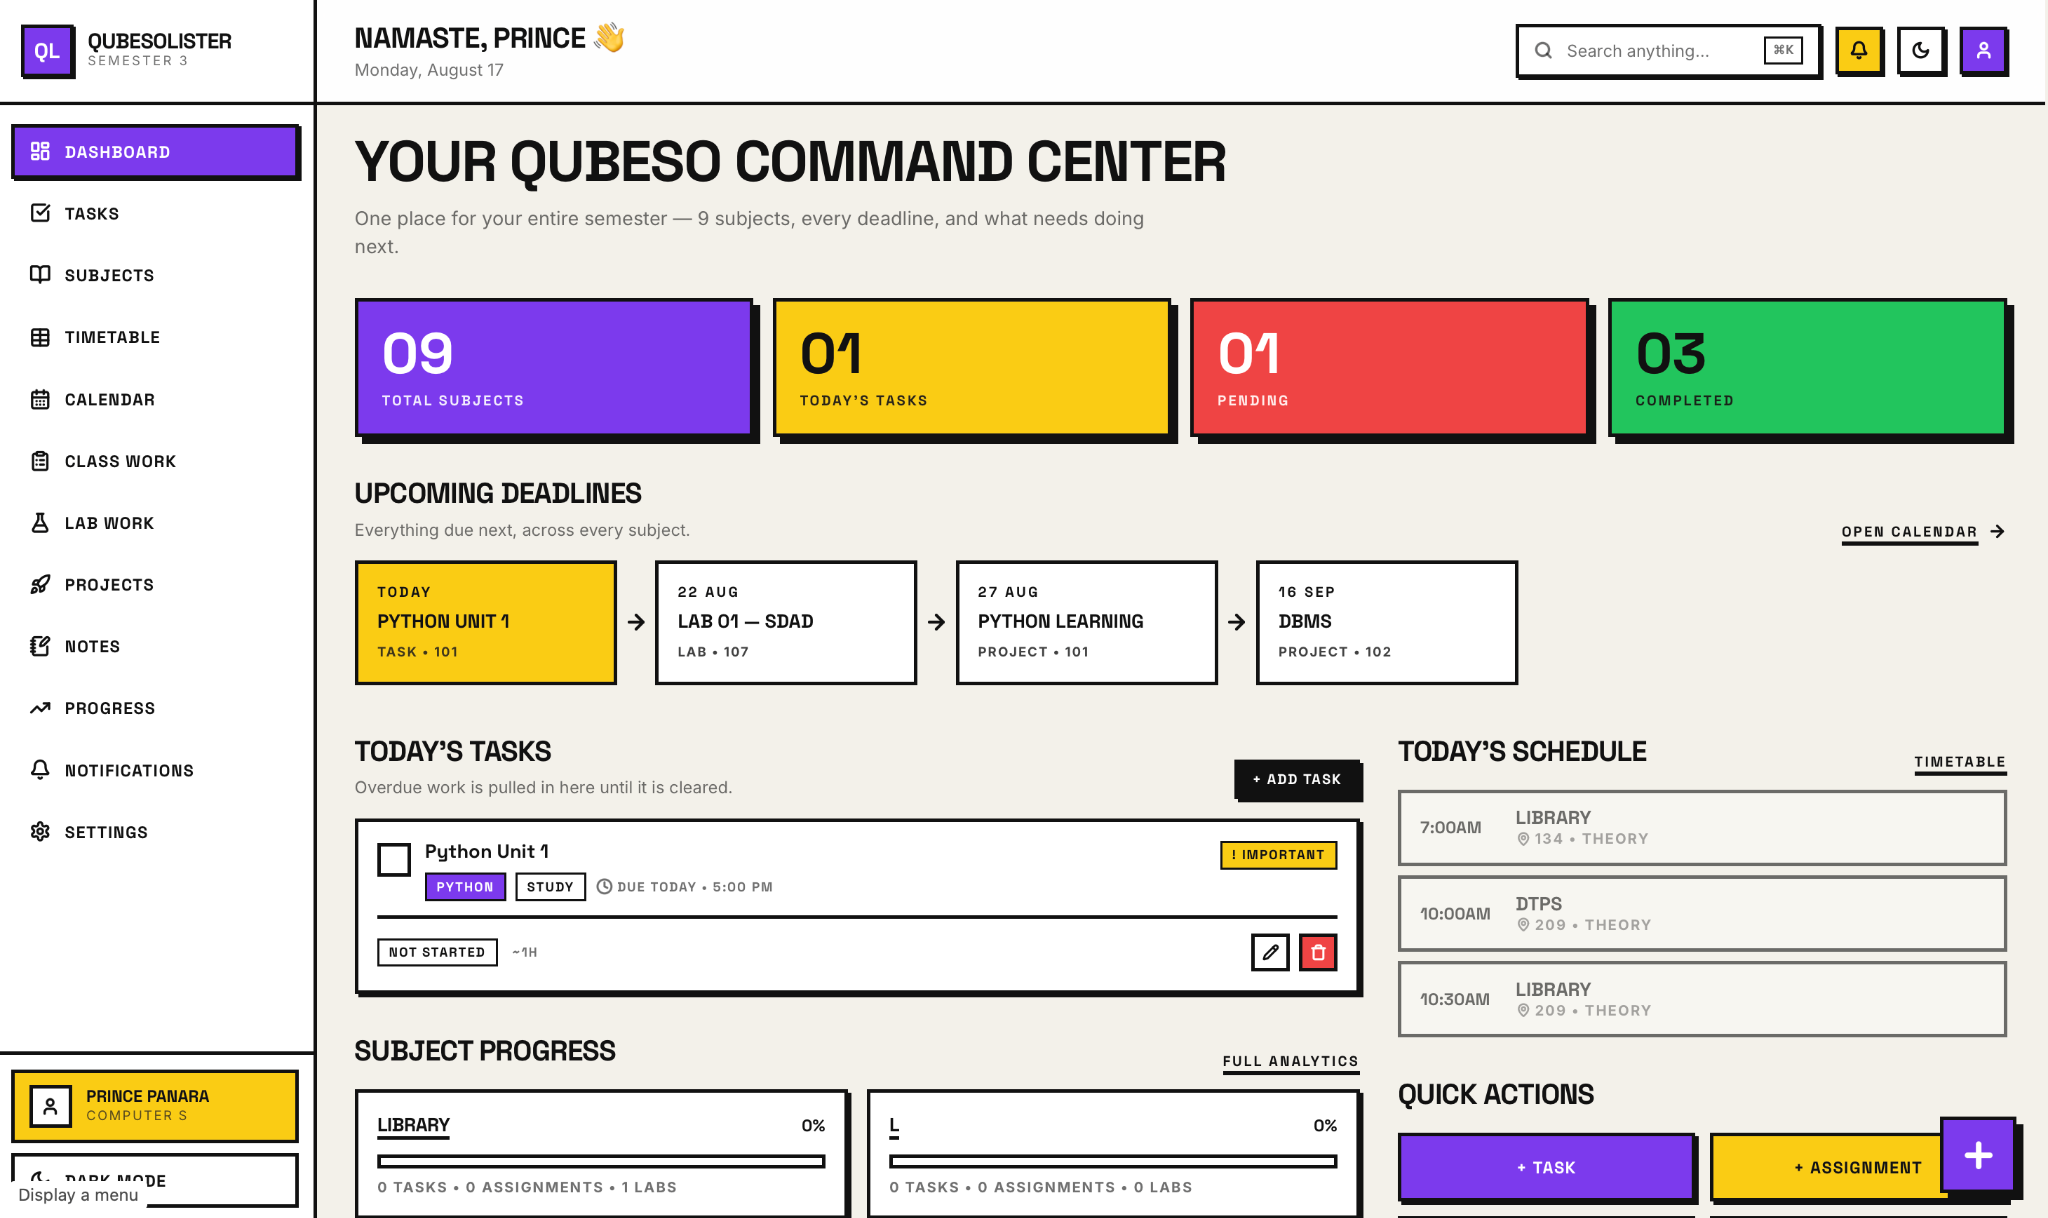
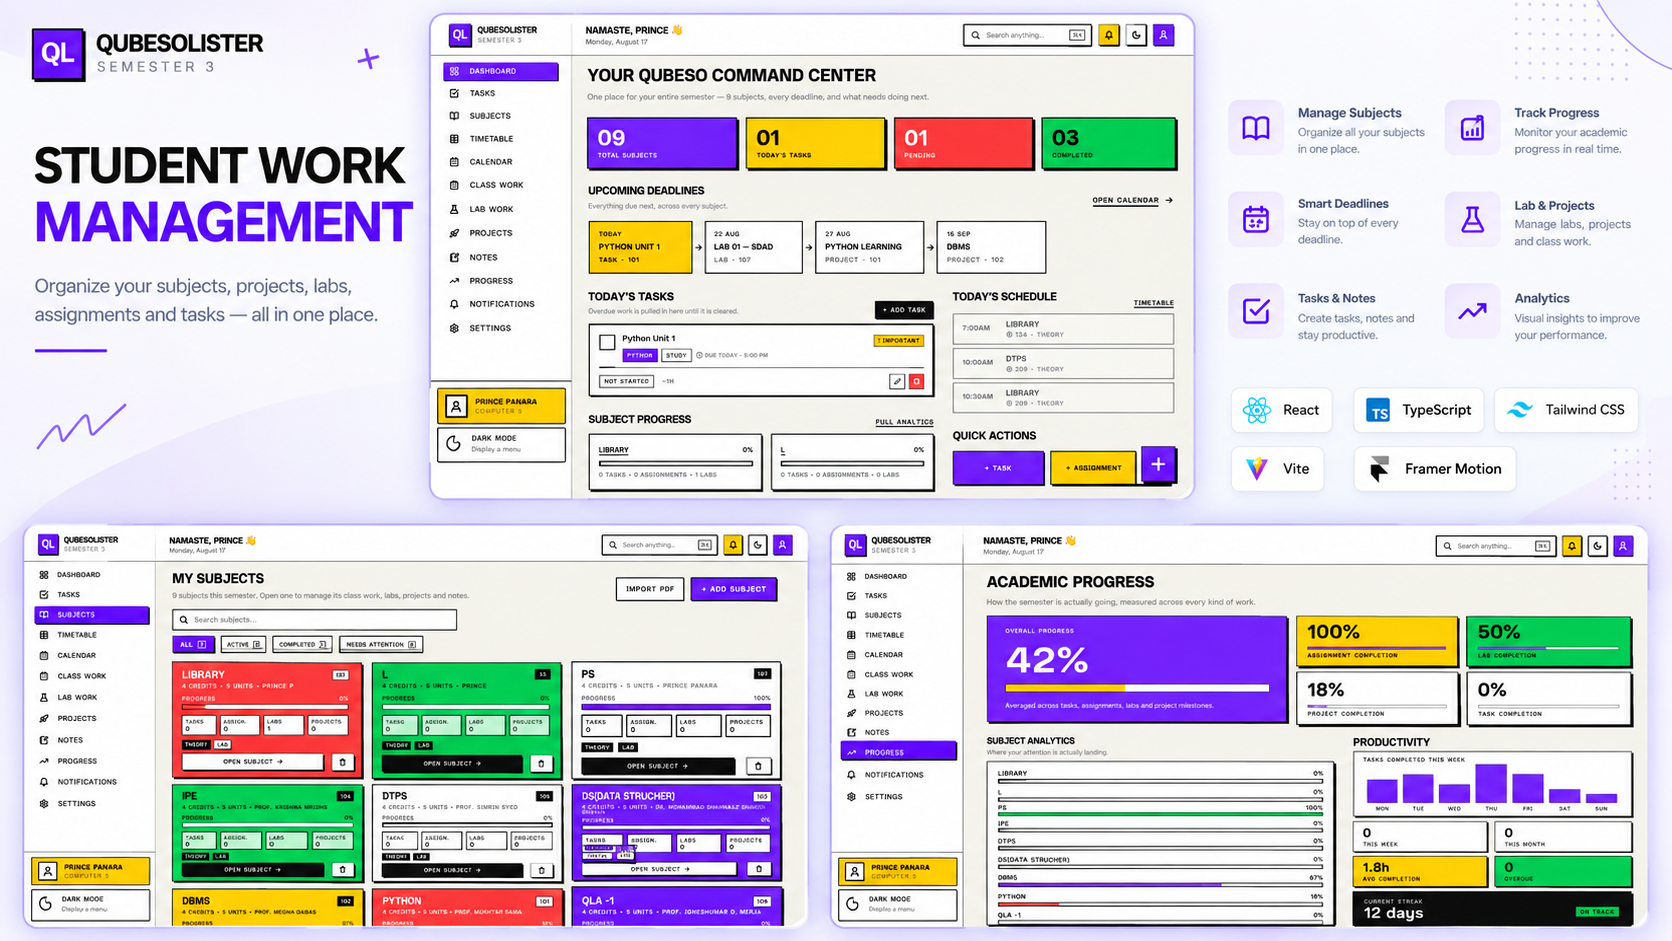
Update project details and add REPO_DETAILS.md

diff --git a/data/projects.ts b/data/projects.ts
@@ -130,7 +130,7 @@ export const projects: Project[] = [
     longDescription: "A comprehensive Student Work Management platform built to help students organize and manage their academic work efficiently. The platform allows students to create and manage subjects, projects, mini projects, major projects, lab work, classwork, assignments, and daily tasks. Students can track their progress, manage deadlines, organize academic activities, and keep all their study-related work structured in one centralized platform. The interface is designed with a clean, modern, and responsive user experience to make academic planning and task management simple and efficient.",
     category: "web",
     tags: ["React", "TypeScript", "Firebase"],
-    coverImage: "/images/projects/.png",
+    coverImage: "/images/projects/student-work-manager.png",
     screenshots: [],
     liveUrl: "https://qubesolister.vercel.app",
     githubUrl: "https://github.com/",

diff --git a/REPO_DETAILS.md b/REPO_DETAILS.md
@@ -1,0 +1,39 @@
+# Repository Details: PrincePanara Portfolio Website
+
+## GitHub Repository
+- **URL**: [https://github.com/PrincePanara/portfolio-website.git](https://github.com/PrincePanara/portfolio-website.git)
+- **Branch**: main
+
+## Project Concept
+This repository contains the source code for a modern, personal portfolio website for Prince Panara. It serves as a showcase for various projects, case studies, skills, and professional experience, highlighting capabilities in UI/UX design, web development, and mobile application development.
+
+## Tech Stack & Framework
+- **Framework**: Next.js (App Router, Turbopack)
+- **Language**: TypeScript
+- **Styling**: Tailwind CSS
+- **Animations/Motion**: Framer Motion (assumed via components like AuroraBackground, GridBackground, MagneticButton, etc.)
+- **Deployment**: Vercel (recommended)
+
+## Project Structure
+- `app/`: Next.js App Router structure with distinct routes (`/about`, `/projects`, `/contact`, `/skills`, `/case-studies`, `/dashboard`, etc.)
+- `components/`: Modular React components grouped logically.
+  - `home/`: Sections for the homepage (HeroSection, FeaturedProjects, SkillsPreview, etc.)
+  - `layout/`: Global layout components (Navbar, Footer, Sidebar, TopBar)
+  - `shared/`: Reusable components (ProjectCard, ThemeToggle, InteractiveAvatar, PrinceCopilot, etc.)
+  - `ui/`: Core UI components (blur-fade, typewriter)
+  - `motion/`: Animation wrappers
+  - `backgrounds/`: Special background effects (Aurora, Grid)
+- `data/`: Centralized content data (`projects.ts`, `skills.ts`, `experience.ts`, `testimonials.ts`) which powers the dynamic sections.
+- `public/`: Static assets (images, icons, resume PDF).
+- `lib/`: Utility functions and Firebase integration.
+- `hooks/`: Custom React hooks (e.g., `useMousePosition`).
+
+## Key Features
+- **Dynamic Content**: Data is driven by TS files in the `data/` directory, making updates to projects, skills, and experience seamless.
+- **Modern Interactions**: Features a custom cursor, scroll progress bar, magnetic buttons, and a splash screen.
+- **Projects Showcase**: Highlights key projects such as "Student Work Manager", "HostelHub", "Iceland Hostel", and "MomentRoom".
+- **Responsive & Themed**: Fully responsive design with support for light and dark themes.
+
+## Workflow Notes
+- Local Development: Run `npm run dev` (runs on port 3000/3002).
+- Content Updates: Modify arrays in the `data/` folder to instantly reflect changes across the application without needing to rebuild UI components.
